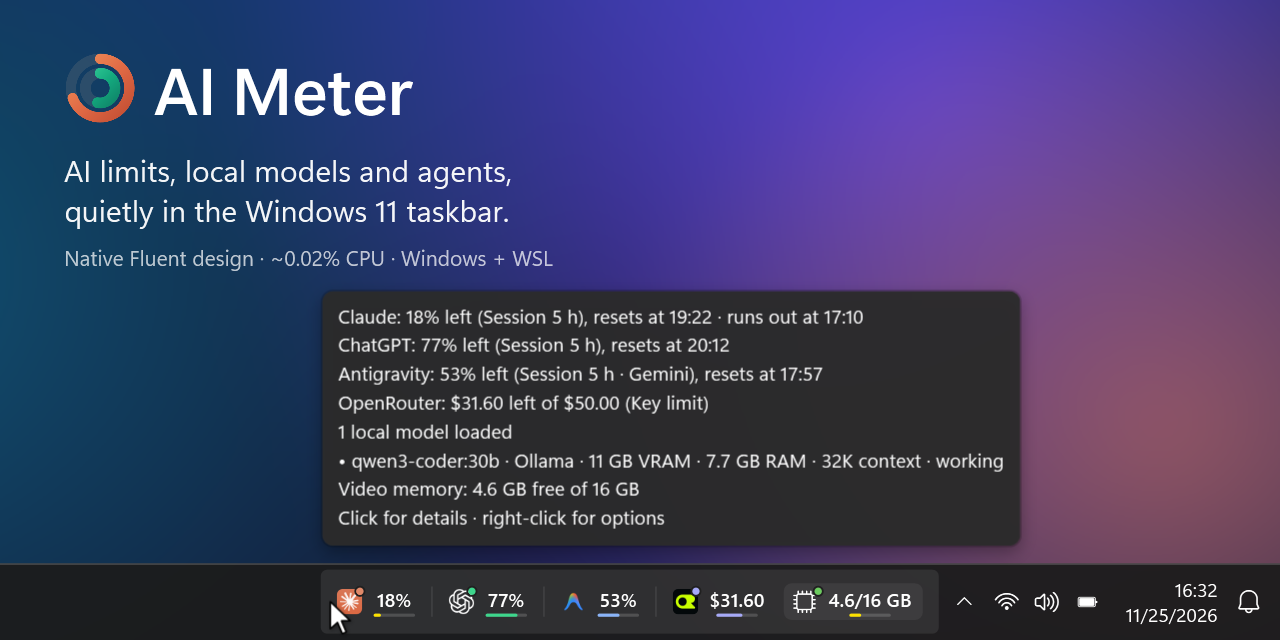
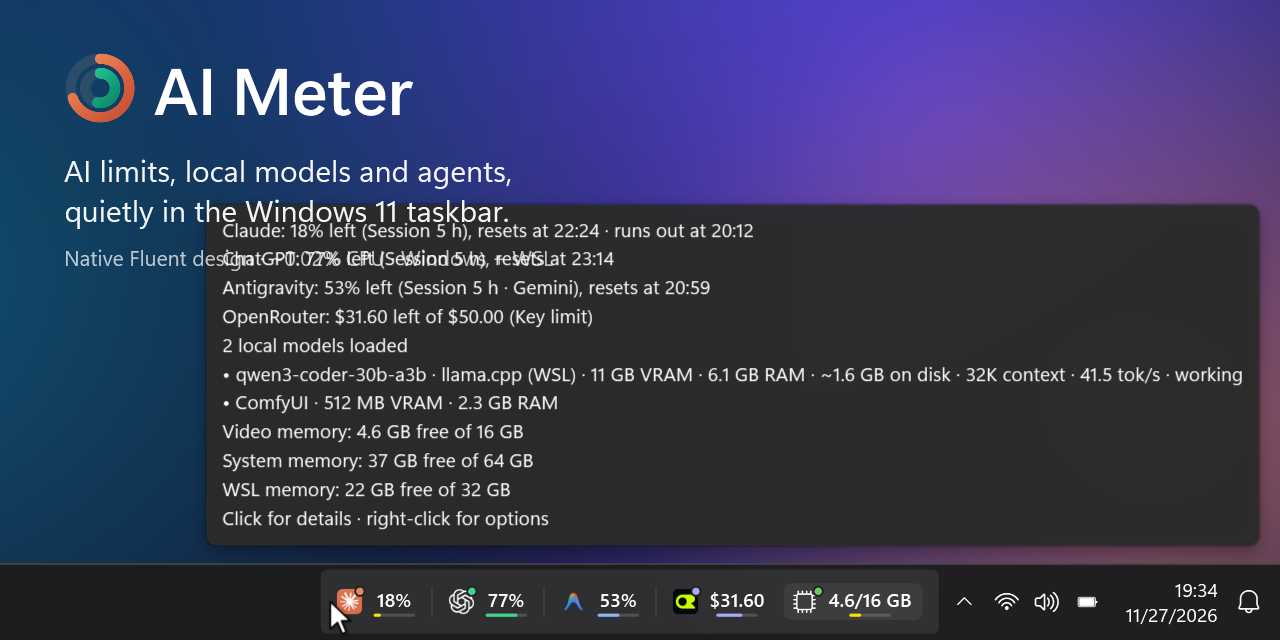
Release 0.13.0 (#118)
## What and why

Draft of the 0.13.0 release, opened early so that the notes and the
images can be read on GitHub. **Not ready to merge:** the version is not
raised yet, and two changes are still to land first.

What is here:

- **`RELEASE_NOTES.md`**: the 0.13.0 section. Local models (ADR 0006:
#109, #110, #113, #114, #115), the two services added by Murzinio in
#107, and the lighter refresh of #116.
- **A new image of the local models card alone**,
`docs/media/local-models-dark.png` and `-light.png`, rendered by
`tools/MediaRenderer.cs` beside the panel.
- **Richer sample data** (`src/DemoData.cs`): a mixture-of-experts model
served by llama.cpp in WSL, partly in video memory, in system memory and
still on disk, with its experts, key-value cache and speed, and ComfyUI
on Windows. One Ollama model on Windows could not show what the card now
does.
- **Every image that shows the card rendered again**: the panel, the
taskbar, its tooltip, the notification, the social preview and
`demo.gif`.
- **README**: a section "Local models, where they really are" with the
image, and the privacy policy now names the local files read for a
model's memory.
- A small fix seen in the images: in the tooltip a server shown under
its own name (ComfyUI) was named twice.

Still to do before this can be merged:

- [ ] `src/AssemblyInfo.cs`: the version. The plan is a release
candidate first, `0.13.0-rc.1`, because much of this release was
verified on one PC only.
[…]

Changed region(s): [[0.1562, 0.3125, 1.0, 0.875], [0.9375, 0.9062, 0.9688, 0.9375]]

diff --git a/src/DemoData.cs b/src/DemoData.cs
@@ -59,14 +59,29 @@ namespace AIMeter
             openrouter.Sessions.Add(new Session { Kind = "Pi", Title = "Translate the settings strings", Status = "busy", Model = "deepseek/deepseek-v4", Updated = now.AddSeconds(-30) });
             s.Providers.Add(openrouter);
 
-            var local = new ProviderState { Id = "local", Name = L.T("Local models"), Running = true, GpuTotal = 16L << 30, GpuUsed = (long)(11.4 * (1 << 30)), Models = new List<LocalModel>() };
+            // A mixture-of-experts model served in WSL, partly on the card, partly in system memory and partly still on
+            // disk, beside an image server on Windows: every part of the local models card has something to show.
+            long gb = 1L << 30;
+            var local = new ProviderState
+            {
+                Id = "local", Name = L.T("Local models"), Running = true, Models = new List<LocalModel>(),
+                GpuTotal = 16 * gb, GpuUsed = (long)(11.4 * gb), RamTotal = 64 * gb, RamUsed = (long)(27.4 * gb),
+                WslTotal = 32 * gb, WslUsed = (long)(10.2 * gb), WslHeld = (long)(10.6 * gb), WslTouched = (long)(10.6 * gb),
+            };
             var qwen = new LocalModel
             {
-                Name = "qwen3-coder:30b", Server = "Ollama", Where = "Windows", Detail = "30.5B · Q4_K_M",
-                Vram = (long)(10.9 * (1 << 30)), Ram = (long)(7.7 * (1 << 30)), Context = 32768, ContextUsed = 21400, Busy = 1, Slots = 1,
+                Name = "qwen3-coder-30b-a3b", Server = "llama.cpp", Where = "WSL",
+                Vram = (long)(10.9 * gb), VramOrigin = MemoryOrigin.Measured, Ram = (long)(6.1 * gb), RamMapped = (long)(5.2 * gb), RamOrigin = MemoryOrigin.Measured,
+                FileSize = (long)(18.6 * gb), Context = 32768, ContextUsed = 21400, Busy = 1, Slots = 1,
+                Segments = new ModelSegments { TokensPerSecond = 41.5, Experts = 128, ExpertsUsed = 8, KvCapacity = 32768, KvBytes = 3 * gb },
             };
-            qwen.Sessions.Add(new Session { Kind = "OpenCode", Title = "Add WSL port probe", Status = "busy", Model = "qwen3-coder:30b", Updated = now.AddSeconds(-10), Note = L.F("{0} tokens in context", "21K") });
-            local.Models.Add(qwen);
+            local.Models.Add(new LocalModel
+            {
+                Name = "ComfyUI", Server = "ComfyUI", Where = "Windows", Detail = "0.42.1",
+                Vram = gb / 2, VramOrigin = MemoryOrigin.Reported, Ram = (long)(2.3 * gb), RamOrigin = MemoryOrigin.Measured,
+            });
+            qwen.Sessions.Add(new Session { Kind = "OpenCode", Title = "Add WSL port probe", Status = "busy", Model = "qwen3-coder-30b-a3b", Updated = now.AddSeconds(-10), Note = L.F("{0} tokens in context", "21K") });
+            local.Models.Insert(0, qwen);
             local.Sessions.Add(new Session { Kind = "Pi", Title = "Write release notes", Status = "idle", Model = "claude-sonnet-5-5", Updated = now.AddMinutes(-6), Note = L.F("{0} tokens in context", "12K") });
             s.Providers.Add(local);
             return s;

diff --git a/tools/MediaRenderer.cs b/tools/MediaRenderer.cs
@@ -35,6 +35,7 @@ namespace AIMeter
             {
                 SetTheme(dark);
                 Save(PanelShot(snap, dark), IOPath.Combine(outDir, dark ? "panel-dark.png" : "panel-light.png"), 2);
+                Save(PanelShot(LocalOnly(snap), dark), IOPath.Combine(outDir, dark ? "local-models-dark.png" : "local-models-light.png"), 2);
             }
             SetTheme(true);
             Save(TaskbarShot(snap), IOPath.Combine(outDir, "taskbar.png"), 2);
@@ -345,6 +346,14 @@ namespace AIMeter
                 c.Children.Add(cur);
             }
             return c;
+        }
+
+        /// <summary>The same reading with the local models alone, for the image that shows their card in full.</summary>
+        private static Snapshot LocalOnly(Snapshot s)
+        {
+            var only = new Snapshot { Taken = s.Taken };
+            only.Providers.AddRange(s.Providers.Where(p => p.Models != null));
+            return only;
         }
 
         private static FrameworkElement PanelShot(Snapshot s, bool dark)

diff --git a/src/Ui.cs b/src/Ui.cs
@@ -249,7 +249,13 @@ namespace AIMeter
         {
             if (p.Models == null || p.Models.Count == 0) return L.T("Local models: none loaded");
             var lines = new List<string> { L.N(p.Models.Count, "{0} local model loaded", "{0} local models loaded") };
-            foreach (var m in p.Models) lines.Add("• " + m.Name + " · " + string.Join(" · ", LocalFacts(m)));
+            foreach (var m in p.Models)
+            {
+                // A server shown under its own name (ComfyUI) is not named twice.
+                var facts = LocalFacts(m);
+                if (facts.Count > 0 && facts[0] == m.Name) facts.RemoveAt(0);
+                lines.Add("• " + string.Join(" · ", new[] { m.Name }.Concat(facts)));
+            }
             lines.AddRange(LocalMemoryLines(p));
             return string.Join("\n", lines);
         }

diff --git a/src/AssemblyInfo.cs b/src/AssemblyInfo.cs
@@ -8,7 +8,7 @@ using System.Runtime.InteropServices;
 [assembly: AssemblyDescription("Sessions and usage limits of AI services on Windows")]
 [assembly: AssemblyCompany("Giuseppe Gabriele Di Chiara")]
 [assembly: AssemblyCopyright("Copyright (c) 2026 Giuseppe Gabriele Di Chiara. Apache License 2.0.")]
-[assembly: AssemblyVersion("0.12.0.0")]
-[assembly: AssemblyFileVersion("0.12.0.0")]
-[assembly: AssemblyInformationalVersion("0.12.0")]
+[assembly: AssemblyVersion("0.13.0.0")]
+[assembly: AssemblyFileVersion("0.13.0.0")]
+[assembly: AssemblyInformationalVersion("0.13.0")]
 [assembly: ComVisible(false)]

diff --git a/README.md b/README.md
@@ -40,6 +40,17 @@ That's all of it, most of the time: a pill **inside** the taskbar. No widget to 
 </tr>
 </table>
 
+## Local models, where they really are
+
+A local model is rarely in video memory alone: part of it sits in system memory, part may still be on disk, and with WSL it lives inside a virtual machine that takes its share of the PC. The local models card shows all of it, for any engine.
+
+<p align="center"><img src="docs/media/local-models-dark.png" alt="The local models card: bars for video memory, system memory split into Windows, the models and WSL with the room WSL has left, and memory inside WSL; a mixture-of-experts model served by llama.cpp in WSL with its own bar for video memory, system memory and what is still on disk, its experts, key-value cache and speed; ComfyUI with the memory it holds" width="440"></p>
+
+- **Each memory is a bar split into what holds it**: the models, other programs and, for the PC, the WSL virtual machine with an outline of how much more it may take before its own ceiling. What is free stays empty.
+- **Each model has its own bar** when it is in more than one place: video memory, system memory, then what is in swap or still on disk. Estimates are marked with `~`, and the tooltip says how each figure is known.
+- **What the engine says of the model's inside**, where it says so: the experts of a mixture-of-experts model, the key-value cache, the generation speed. For a GGUF file the header gives the experts and the sizes of the cache.
+- **Not only text**: ComfyUI and any server with the OpenAI-compatible interface are shown too, with the memory of their process.
+
 ## Your usage, over time
 
 Open **Usage history** from the notification-area menu or **Settings → Usage history**. AI Meter starts collecting when you first run this version and continues with the panel closed. It keeps the data on your PC, so you can look back without saving prompts or conversation text.
@@ -293,7 +304,7 @@ Network connections are limited to reading your own usage:
 - **xAI**: a request to `management-api.x.ai` (`/v1/billing/teams/<team ID>/prepaid/balance`) with an xAI Management API key and your team ID, only if you turn the service on and both are added (the key can also come from the `XAI_MANAGEMENT_API_KEY` environment variable). It reads your prepaid credit balance; regular API keys are never sent to it.
 - **Pi for delegated tasks** (off until you ask): in Settings → MCP → Delegation agent you can have AI Meter download Pi, the coding agent, so that delegation works without installing one yourself. There are two copies of one fixed release of [earendil-works/pi](https://github.com/earendil-works/pi) (MIT licence), each with its own button: `pi-windows-x64.zip` (59 MB) for Windows and `pi-linux-x64.tar.gz` (59 MB) for the WSL distribution AI Meter is set to. Pressing a button makes one request to `github.com` for that archive, which GitHub redirects to its release storage (`release-assets.githubusercontent.com` or `objects.githubusercontent.com`). It sends no cookies, account or identifier. The Microsoft Store build does not offer this download yet: it will only once the Store listing discloses it. AI Meter checks the file against a SHA-256 written in its own sources and discards any other. The Windows copy is unpacked to `managed\pi` in `%LOCALAPPDATA%\AIMeter`, which stays on this PC (the Store build, when it offers it, will keep it in `%USERPROFILE%\.aimeter\managed\pi`, because a packaged app's AppData is private to the package). The copy inside WSL is unpacked to `~/.aimeter/managed/pi` in the Linux home: AI Meter checks the file on Windows and then feeds it to the distribution's own `tar` through `wsl.exe`, the one case in which it starts a program inside WSL, only during an installation you asked for and only while the distribution is already running (AI Meter never starts it). Both are outside `PATH`, and a button removes each. Each has its own configuration folder and never reads or writes `~/.pi`; the one inside WSL is readable by your Linux user only. When it runs a delegated task, Pi contacts the model's service like any coding agent; the plugin starts it with Pi's own update check and telemetry off, and with Pi's offline mode on, so that it downloads nothing while it works (without ripgrep or fd on `PATH`, its search tools fail with an error instead of fetching them). **Limit:** Pi's tools are not confined to the task's folder. Like any coding agent run as your user, it can read your files, including its own plain-text key file (one on Windows and, if you install both copies, a second in your Linux home), so a model that is told to, or tricked into it, can see the keys copied there (all of them, not only the key of the service the task runs on). The plugin removes any of those keys from the answers it returns to the coordinator, but the model's service has then already received it. Copy only keys of services whose free-tier exposure you accept, and do not delegate tasks on content you do not trust. The same holds for your own Pi and its `~/.pi`. Pi is never updated on its own: a newer release comes only with a new AI Meter version, and only if you press the button again.
 - **Definitions you add**: a request to the address named in the file.
-- **Local models**: requests to `127.0.0.1` only, which never leave the PC.
+- **Local models**: requests to `127.0.0.1` only, which never leave the PC. To tell how much memory a model holds, AI Meter also reads on this PC the memory counters of the server's process, for a server in WSL the files `/proc/meminfo`, `/proc/<pid>/status` and `/proc/<pid>/cmdline` through the WSL share (of a command line only the port, the model file and two options are used, and nothing is kept), and the header of a GGUF model file. None of it leaves the PC.
 - **Update check** (on by default, Settings → About → *Check for updates*): in the zip and script builds, at most once a day, one anonymous request to `api.github.com` for the latest release of AI Meter (`/repos/dichiara19/ai-meter/releases/latest`, or the list of recent releases if you include pre-releases). It sends no cookies, account, identifier or version, only the `User-Agent: ai-meter` header that GitHub requires, and like any request it reveals your IP address to GitHub ([GitHub's privacy statement](https://docs.github.com/site-policy/privacy-policies/github-general-privacy-statement)). If a newer version exists it shows a notice; it never downloads or installs an update, and offline or rate-limited checks fail silently. The Microsoft Store version does not run this check and does not contact GitHub for it: with the same switch on, it asks the Microsoft Store through Windows whether an update is waiting, and the Store installs updates itself.
 - **Delegation (MCP)**: coding-agent plugins can reserve room on a free model's pool through AI Meter. AI Meter keeps these leases in `%APPDATA%\AIMeter\leases.json`: pool, model, agent, times and the counts the plugin reports (requests, rate limits, tokens, cost), for 30 days, per pool and per model; each model's counts are its track record, which orders the candidates. The models you mark as preferred or avoided for delegation are kept in the settings. It never stores task text, code or keys, and it starts no agent itself. The one place AI Meter keeps a key outside its own encrypted store is the optional Pi above: for each service you tick there, it copies that key into Pi's own `auth.json`, a plain-text file as in any Pi installation (readable by the agent, see the limit above), and deletes the copy when you untick the service, remove the key or remove Pi. No MCP tool returns a key. The [delegation plugin](plugins/ai-meter/README.md#privacy) keeps each task's text and the agent's output in `~/.aimeter/jobs` on your PC for seven days. Delegation on your Claude or ChatGPT plan is off until you turn it on in Settings → AI apps → Delegated tasks; to offer it, AI Meter uses only what it already reads for the limits (the windows, extra usage, Codex credits, and from Codex's own `account/read` only whether it is signed in with ChatGPT or an API key), plus the list of models Codex caches in its own folder (`~/.codex/models_cache.json`). Before starting Claude Code or Codex on a plan, the plugin runs their own `auth status` or `login status` command and keeps only the sign-in method, never the account it names.
 - **AI apps (MCP)**: apps you connect in Settings → MCP read AI Meter's latest data through a named pipe that only your Windows user can open. An app can ask for newer data. AI Meter then reads your usage again from the same services listed above, at most once a minute per service. Nothing else leaves the PC because of it, but what an app reads can reach that app's model provider as part of your conversation. Keys, tokens and account identities are never shared; session titles only if you turn on *Share session titles*.

diff --git a/RELEASE_NOTES.md b/RELEASE_NOTES.md
@@ -1,3 +1,35 @@
+## What changed in 0.13.0
+
+Local models are shown where they really are: in video memory, in system memory, in swap or still on disk, on Windows and inside WSL, for any engine.
+
+![The local models card: bars for video memory, system memory split into Windows, the models and WSL, and memory inside WSL; a mixture-of-experts model with its own bar, its experts, key-value cache and speed; ComfyUI with the memory it holds](https://raw.githubusercontent.com/dichiara19/ai-meter/v0.13.0/docs/media/local-models-dark.png)
+
+### Local models
+- **System memory, not only video memory.** Until now a model in WSL showed its video memory alone, and one on Windows showed system memory only when its video memory was unknown: a model kept mostly in system memory looked far smaller than it is. Each model now shows what its process holds, on Windows and inside WSL, without starting anything in WSL.
+- **A map of each memory.** Video memory, system memory and, with WSL, the memory inside its virtual machine are bars split into what holds them: the models, other programs and WSL, with an outline of how much more WSL may take before its own ceiling. A memory that is running out is told by the colour of its value.
+- **Where each model is.** A model in more than one place has a bar of its own: video memory, system memory, then what is in swap or still on disk. What is on disk is an estimate (the model file's size less what is in memory), marked with `~`. The tooltip says how each figure is known: reported by the server or measured from the process.
+- **Under memory pressure** the card says how much of what WSL uses Windows has compressed or paged out.
+- **What the engine says of the model's inside**: the experts of a mixture-of-experts model (where they are, how many the card keeps, how often a routed one is found there, how much is being moved to the card), the capacity and format of the key-value cache, and the generation speed. Read from [NInfer](https://github.com/iamwavecut/ninfer-all), now recognised behind its llama-server interface, and, for the speed, from a `llama-server` started with `--metrics`.
+- **GGUF model files.** For a model `llama-server` loaded, the file's header says whether it is a mixture of experts and gives the sizes from which the key-value cache's weight is estimated.
+- **Not only text.** ComfyUI is recognised, with its version, the video memory it holds and its queue. Any server that answers the OpenAI-compatible `/v1/models` is shown as one entry while its process holds at least a gigabyte, so that a proxy to a cloud service is not taken for a local model. Whatever llama-swap started is recognised by its own interface.
+- **MCP.** `list_local_models` returns the same figures: where each model's memory is and how it is known, its engine, speed, key-value cache and experts.
+- LocalAI, text-generation-webui and ComfyUI were not always found: a refused request kept its connection, and later requests to the same server timed out. Fixed.
+
+### New services
+- **Z.ai Coding Plan**: the 5-hour, weekly and MCP quotas of a GLM Coding Plan, with their reset times.
+- **xAI**: the prepaid credit balance of an xAI API team, with a Management API key and the team ID.
+- **Mistral Vibe**: the monthly Vibe Code allowance of a Mistral account, as the Vibe CLI shows it, with its reset date and, when one is set, the monthly API budget.
+- All three by [@Murzinio](https://github.com/Murzinio), checked against real accounts.
+- Z.ai and Mistral Vibe are shown with their own logos.
+
+### Taskbar and desktop
+- **Choose which services the taskbar shows.** With many services on, the pill grew too wide. Each service's page in Settings now has a **Show in the taskbar** switch: a service switched off there leaves the pill and stays in the summary, the panel and the widget.
+- **The desktop widget survives Win + D.** *Show desktop* hid the widget together with the windows. It now sits just above the desktop icons: still beneath every app, and visible when the desktop is raised.
+- Both asked for by [@Murzinio](https://github.com/Murzinio).
+
+### Lighter
+- **A refresh costs less than in 0.12.0.** The processes of the PC, their parents and the memory they hold now come from one system query: on a PC with 618 processes a refresh without network requests went from about 39 ms to about 28 ms. Memory inside WSL is read at most every 30 seconds, 60 on battery.
+
 ## What changed in 0.12.0
 
 Delegation no longer needs a coding agent of your own: AI Meter can set one up for you, and Settings guide you through it.
